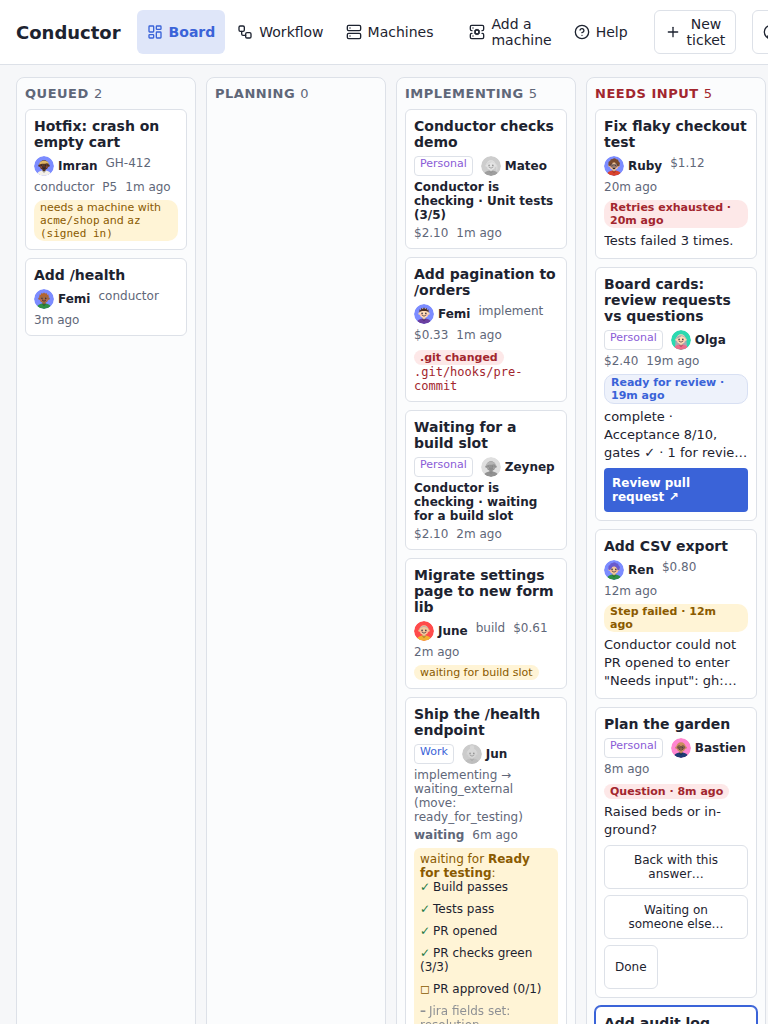
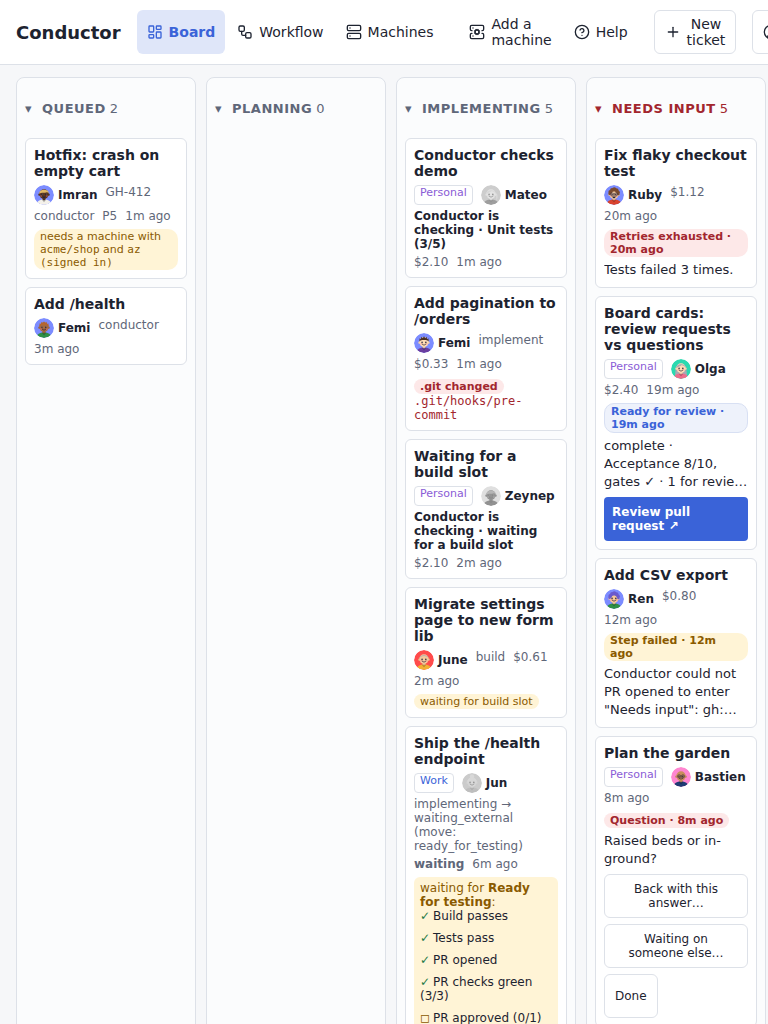
docs(qa): retake the after screenshots on top of UX-9

diff --git a/docs/qa/ux-review/README.md b/docs/qa/ux-review/README.md
@@ -93,7 +93,7 @@ Every app page is wider than a phone, so the whole page pans sideways, the top b
 
 ## After
 
-Ben approved the phone proposals (items 1–8), and they are built. The design is in [11-web-ui](../../design/11-web-ui.md). None of the three desktop-only changes (UXR-08, UXR-13, the UXR-14 desktop form) had an explicit yes, so they stay as follow-ups. The [after set](after/) was made with `node scripts/ui-screenshots.js --out after`, and its metrics are in [`after/metrics.json`](after/metrics.json).
+Ben approved the phone proposals (items 1–8), and they are built. The design is in [11-web-ui](../../design/11-web-ui.md). None of the three desktop-only changes (UXR-08, UXR-13, the UXR-14 desktop form) had an explicit yes, so they stay as follow-ups. The [after set](after/) was made with `node scripts/ui-screenshots.js --out after`, after merging UX-9 (so the desktop board shows its collapse toggles), and its metrics are in [`after/metrics.json`](after/metrics.json).
 
 ### Measurements (after)
 
@@ -146,4 +146,4 @@ At 375 px, the controls under 44 px that are left in view are the card title and
 ### Still to check on a real phone
 - The iOS keyboard with `--vvh`, and standalone (Home Screen) mode: Chromium emulation can't show them.
 - BlockNote on touch. Plain markdown is the fallback.
-- Tablet (768 px) keeps the desktop board, which is 1,146 px wide, so it pans. That was not in the proposals; UX-9's collapsible columns are the planned fix.
+- Tablet (768 px) keeps the desktop board, which is 1,146 px wide with every column open, so it pans. That was not in the proposals. UX-9's collapsible columns (now on `main`, desktop only) let you narrow it by collapsing columns; a tablet layout is a follow-up.
